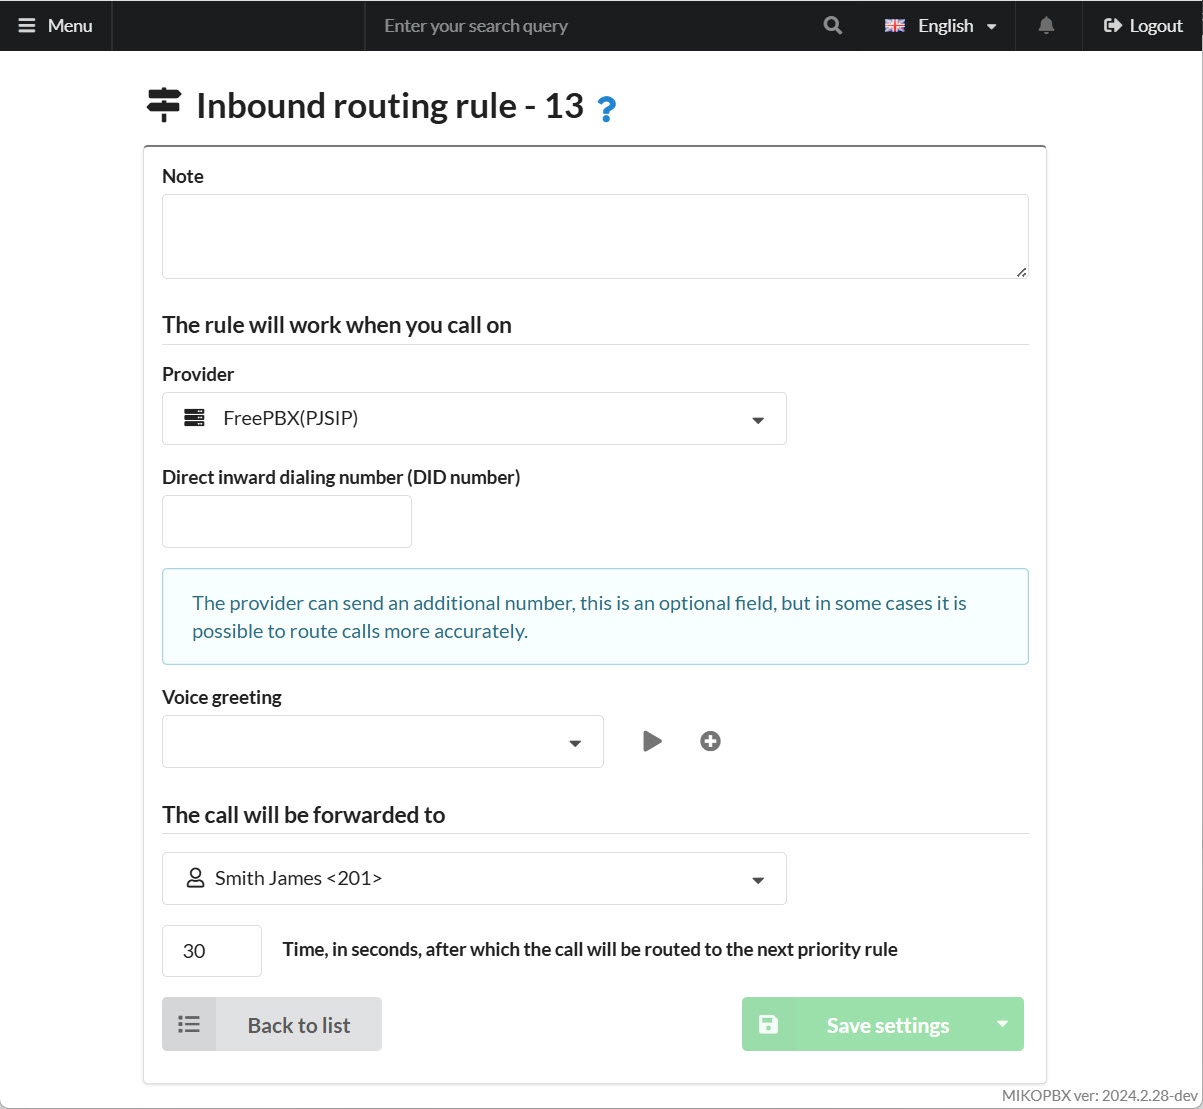
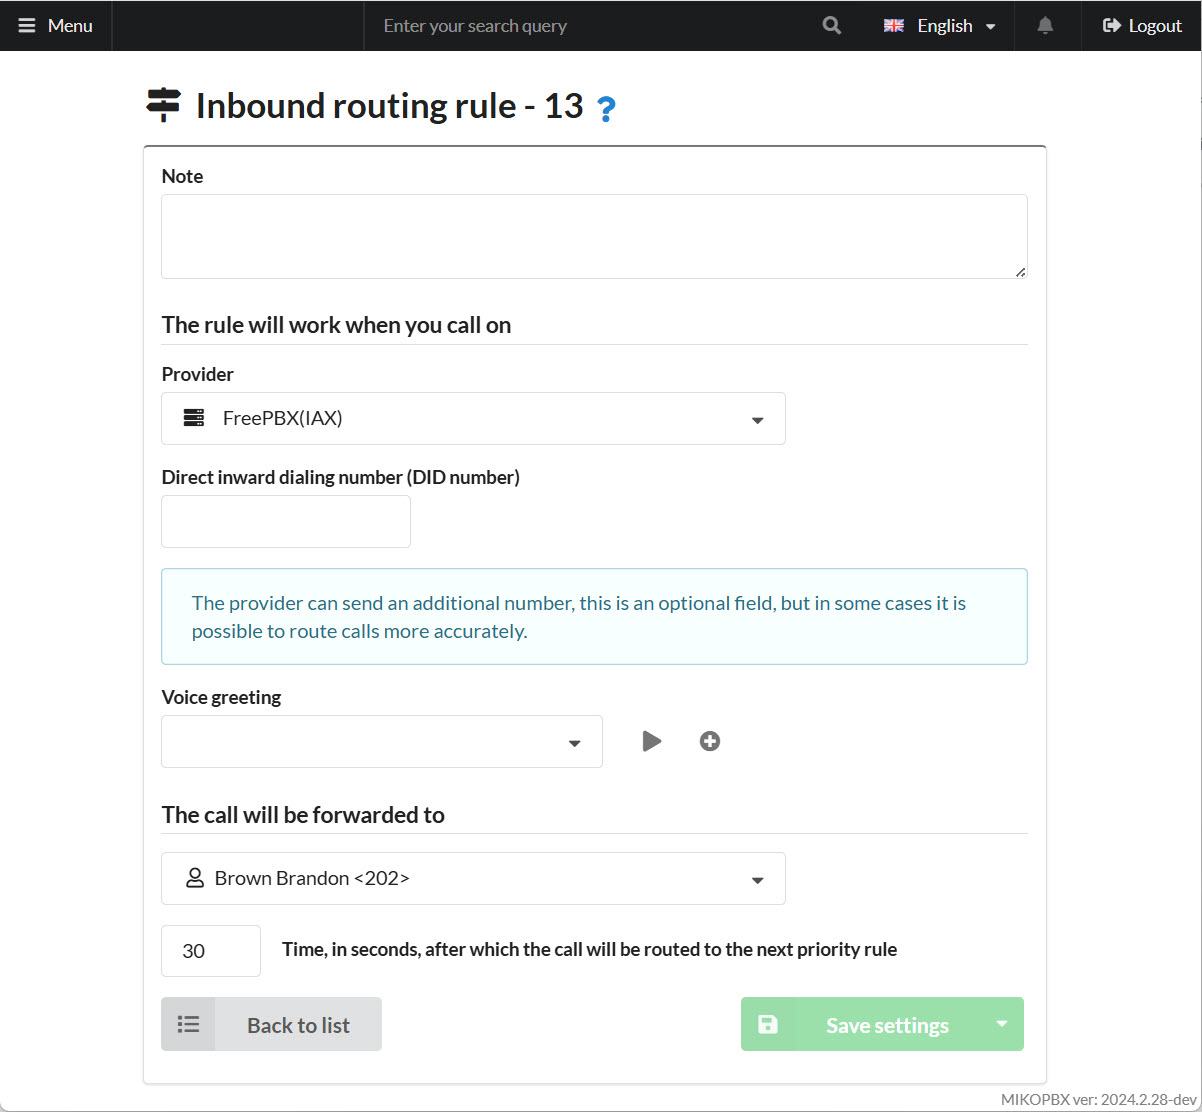
GITBOOK-406: No subject

diff --git a/faq/interconnections/mikopbx-and-freepbx-iax.md b/faq/interconnections/mikopbx-and-freepbx-iax.md
@@ -1,0 +1,96 @@
+---
+description: Instructions for connecting multiple PBX systems
+---
+
+# MikoPBX and FreePBX (IAX)
+
+## MikoPBX Configuration
+
+1. In MikoPBX, navigate to **"Routing" → "Telephony Providers"**:
+
+<figure><img src="../../.gitbook/assets/TelephonyProvidersSection.jpg" alt=""><figcaption><p>"Telephony providers" section</p></figcaption></figure>
+
+2. Create a new **IAX** provider:
+
+<figure><img src="../../.gitbook/assets/connectIAXBtn.jpg" alt=""><figcaption><p>"Connect IAX" button</p></figcaption></figure>
+
+3. Fill in the parameters:
+
+* **Provider Name** – any name
+* **Host or IP Address** – the IP address of FreePBX
+* **Username** – “tmp”
+* **Password** – any (secure) password
+
+Save the parameters.
+
+<figure><img src="../../.gitbook/assets/providerParameters (1).jpg" alt=""><figcaption><p>Provider Parameters 1</p></figcaption></figure>
+
+4. After saving, you’ll see the **provider ID** in the browser’s address bar. Copy it into the **Username** field:
+
+<figure><img src="../../.gitbook/assets/providerParameters2.jpg" alt=""><figcaption><p>Provider Parameters 2</p></figcaption></figure>
+
+## FreePBX Configuration
+
+1. In FreePBX, go to **"Connectivity" → "Trunks"** and add a new **IAX2** trunk:
+
+<figure><img src="../../.gitbook/assets/newIAXTrunkFreePBX.jpg" alt=""><figcaption><p>New IAX2 Trunk</p></figcaption></figure>
+
+2. Under the **"General"** tab, set **Trunk Name** to the login used in MikoPBX (seen in the browser address bar, e.g., “**IAX-TRUNK-1E8B1CFE**”):
+
+<figure><img src="../../.gitbook/assets/TrunkNameFreePBX.jpg" alt=""><figcaption><p>"Trunk Name" field</p></figcaption></figure>
+
+3. Under **"Dialed Number Manipulation Rules,"** define a pattern for outgoing calls:
+
+<figure><img src="../../.gitbook/assets/DNMRFreePBX.jpg" alt=""><figcaption><p>Dialed Number Manipulation Rules</p></figcaption></figure>
+
+4. Go to **"pjsip Settings"** → **"iax2 Settings."** Under **Trunk Name**, use the same login from MikoPBX (e.g., “IAX-TRUNK-1E8B1CFE”):
+
+<figure><img src="../../.gitbook/assets/iax2TrunkName.jpg" alt=""><figcaption><p>"Trunk Name" field (iax2 Settings)</p></figcaption></figure>
+
+Fill in **PEER Details**:
+
+```
+type=friend
+auth=plaintext
+language=ru-ru
+qualify=2000
+transfer=mediaonly
+disallow=all
+;username=mikopbx
+host=dynamic
+trunk=yes
+secret=123
+allow=alaw&ulaw
+```
+
+<figure><img src="../../.gitbook/assets/PEERDetailsParameters.jpg" alt=""><figcaption><p>"PEER Details" field</p></figcaption></figure>
+
+5. In the **"Incoming"** tab, fill in the **Register String** field in the format **“LOGIN:PASSWORD@IP\_FREE\_PBX”**:
+
+<figure><img src="../../.gitbook/assets/registerStringFieldFreePBX.jpg" alt=""><figcaption><p>"Register String" field</p></figcaption></figure>
+
+## Routing Setup
+
+### MikoPBX
+
+1. Define an **incoming route** ([see “Incoming Routes” guide](../../manual/routing/incoming-routing.md)). In this example, all calls are routed to extension **202**:
+
+<figure><img src="../../.gitbook/assets/inboundMikoPBX.jpg" alt=""><figcaption><p>Inbound routing rule MikoPBX</p></figcaption></figure>
+
+If needed, define a separate route for each DID with its own destination:
+
+<figure><img src="../../.gitbook/assets/inboundMikoPBXindividualDID.jpg" alt=""><figcaption><p>Inbound routing rule MikoPBX (Individual DID)</p></figcaption></figure>
+
+2. Define an **outgoing route** ([see “Outbound Routes” guide](https://chatgpt.com/manual/routing/outbound-routing.md)):
+
+<figure><img src="../../.gitbook/assets/outboundRulesMikoPBX(USA).jpg" alt=""><figcaption><p>Outbound routing MikoPBX</p></figcaption></figure>
+
+### FreePBX
+
+1. Go to **"Connectivity" → "Inbound Routes"** and define an inbound route:
+
+<figure><img src="../../.gitbook/assets/inboundRouteFreePBX.jpg" alt=""><figcaption><p>Inbound routing FreePBX</p></figcaption></figure>
+
+2. Go to **"Connectivity" → "Outbound Routes"** and define an outbound route:
+
+<figure><img src="../../.gitbook/assets/outboundRoutingFreePBX.jpg" alt=""><figcaption><p>Outbound routing FreePBX</p></figcaption></figure>

diff --git a/faq/interconnections/mikopbx-and-freepbx-pjsip.md b/faq/interconnections/mikopbx-and-freepbx-pjsip.md
@@ -85,11 +85,11 @@ Save and apply the changes.
 
 2. Define an inbound route ([“Incoming Routing” article](../../manual/routing/incoming-routing.md)) in MikoPBX:
 
-<figure><img src="../../.gitbook/assets/inboundMikoPBX.jpg" alt=""><figcaption><p>Inbound routing template MikoPBX</p></figcaption></figure>
+<figure><img src="../../.gitbook/assets/inboundMikoPBX (1).jpg" alt=""><figcaption><p>Inbound routing template MikoPBX</p></figcaption></figure>
 
 If necessary, define a separate route for each DID to direct calls to the correct destination (e.g., if a FreePBX user dials **202**, route it to extension **202** on MikoPBX):
 
-<figure><img src="../../.gitbook/assets/inboundMikoPBXindividualDID.jpg" alt=""><figcaption><p>Inbound routing template (Individual DID configuring)</p></figcaption></figure>
+<figure><img src="../../.gitbook/assets/inboundMikoPBXindividualDID (2).jpg" alt=""><figcaption><p>Inbound routing template (Individual DID configuring)</p></figcaption></figure>
 
 3. Go to **"Connectivity"** → **"Inbound Routes"** in FreePBX and define an inbound route:
 

diff --git a/SUMMARY.md b/SUMMARY.md
@@ -149,7 +149,7 @@
   * [Merging two MikoPBX](faq/interconnections/mikopbx-2-mikopbx.md)
   * [Integration of MikoPBX and Grandstream UCM6202](faq/interconnections/mikopbx-and-grandstream-ucm6202.md)
   * [MikoPBX and FreePBX (PJSIP)](faq/interconnections/mikopbx-and-freepbx-pjsip.md)
-  * [Page 1](faq/interconnections/page-1.md)
+  * [MikoPBX and FreePBX (IAX)](faq/interconnections/mikopbx-and-freepbx-iax.md)
 * [VoIP providers](faq/providers/README.md)
   * [Ростелеком](faq/providers/rostelekom.md)
   * [Mango](faq/providers/mango.md)
